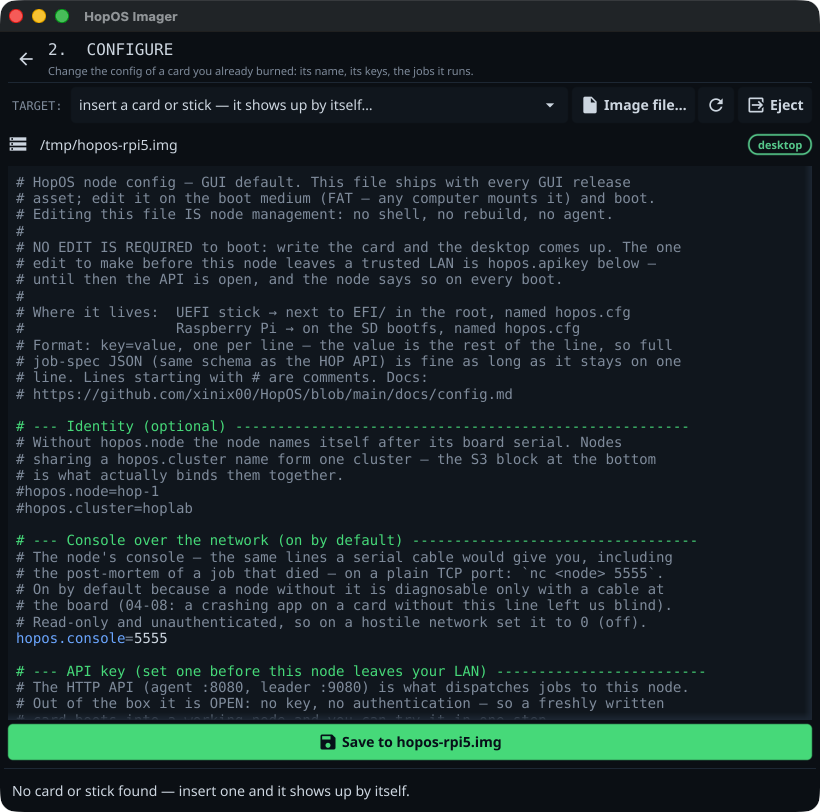
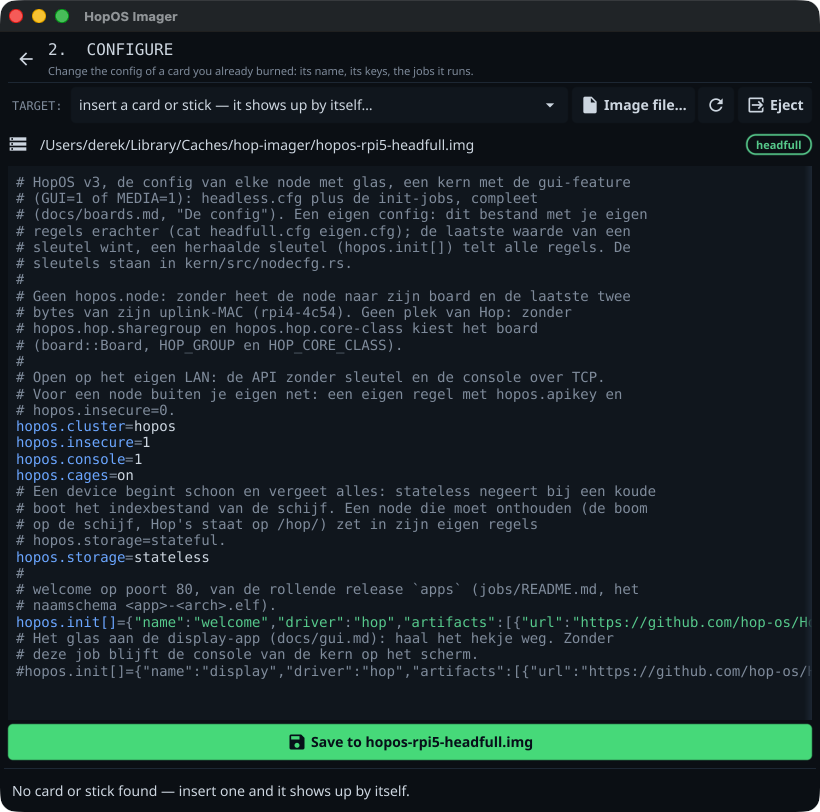
README, release-notes en screenshots: HopOS is Rust en woont in hop-os
De README vertelt v3: twee smaken per board en welke board welke heeft, het
16 KiB-venster in de kern op elk board, hop image (hop-os/hop) en hopcfg.py
(hop-os/HopOS) als de command-line kant, dat tcp/5555 in v3 een keuze is
(hopos.console=1 of hopos.insecure=1), en hoe FIND Hop vraagt wat de ring
vergat. De screenshots zijn opnieuw gemaakt: de Rust-tagline, BURN op v3.0.20,
CONFIGURE met de headfull.cfg van rc9, en FIND met drie echte nodes.

diff --git a/README.md b/README.md
@@ -8,8 +8,15 @@ steps, no terminal.
    (\(\
    ( -.-)     HopOS
    o_(")(")   --------------
-              the Go-only OS
+              the Rust-only OS
 ```
+
+HopOS is a bare-metal operating system for edge computing, written in Rust
+since v3: no Linux, one static binary *is* the OS, and every app runs in its
+own hardware-enforced partition on its own core. Its source lives in
+[hop-os/HopOS](https://github.com/hop-os/HopOS); the orchestrator that runs on
+it, Hop, in [hop-os/hop](https://github.com/hop-os/hop). This tool is the
+part you run on your laptop.
 
 ## One thing at a time
 
@@ -36,15 +43,35 @@ other nodes run.
 The tool opens on the **newest stable**. A beta is something you choose, not
 something that happens to you.
 
-Pick the **type** next: *Desktop* boots into the HopOS GUI, *Headless* is a
-node with no display code linked at all — API plus network console, and *Media*
-is the GUI plus the hardware video codec and USB optical drives, code the other
-two do not link. Then pick your **board**; version, type and board together
-select the image, so switching one of the three keeps the other two and fetches
-the matching file. A board without that flavour stays visible but disabled (the
-LicheeRV Nano and the Mac mini M4 are headless-only, and only the Radxa Orion
-O6N has a codec block to switch on — that is a fact about the port, not a
-missing download).
+Pick the **type** next. HopOS v3 builds every board in two flavours:
+*Headless* is a kernel with no GUI linked at all — API plus network console —
+and *Headfull* is the kernel with the GUI, plus the hardware video codec and
+USB optical drives on the Radxa Orion O6N, the one board with a codec block.
+The tool opens on Headless, because every board has it. Then pick your
+**board**; version, type and board together select the image, so switching one
+of the three keeps the other two and fetches the matching file. A board
+without that flavour stays visible but disabled (the LicheeRV Nano and the Mac
+mini M4 are headless-only: their kernel has no GUI feature — a fact about the
+port, not a missing download).
+
+The Go releases (HopOS v2) are still in the version list, with the three types
+they had: *Desktop*, *Headless* and *Media*. The buttons follow the version
+you pick, and switching between a v2 and a v3 version keeps the kind of card
+you chose — Headfull becomes Desktop and back, and your board stays selected
+even where v3 renamed it (`radxa-zero3` is `radxa` now, `m4` is `apple`).
+
+| Board | Headless | Headfull |
+|---|---|---|
+| Raspberry Pi 4 / 5 | yes | yes |
+| Radxa Zero 3E | yes | yes |
+| Radxa Orion O6N (USB stick) | yes | yes, with codec and optical drives |
+| Ampere Altra (USB stick) | yes | yes |
+| Mac mini M4 (installer stick) | yes | — |
+| LicheeRV Nano | yes | — |
+
+The Mac mini stick is not a boot medium: it carries the image, an installer
+and a README. Boot the mini into Recovery and run
+`sh /Volumes/HOPOS/install.sh go`; from then on it powers on into HopOS.
 
 The image is downloaded once and cached. Insert a card or a USB stick and it
 appears in **TARGET** by itself; if it is the only one, it is already selected.
@@ -68,9 +95,13 @@ It keeps your config **verbatim**. A config is a decision you made, and quietly
 merging it with a newer default would change decisions — with repeatable lines
 like `hopos.init[]` there is no honest merge anyway. Instead the tool tells you
 what the new default sets that your config lacks, so you can add it in CONFIGURE
-if you want it. It also warns when your kept config seeds a desktop but the
-image you just wrote is headless: that display job would never get the
-framebuffer.
+if you want it. It also warns when your kept config gives the screen to the
+display app but the image you just wrote is headless: that job would never get
+the framebuffer.
+
+The config window of a v3 kernel is 16 KiB (a Go card carried 1 MiB). A
+config that does not fit is not cut short: the card keeps the image's default,
+the tool says so, and your own config is in the backup.
 
 The backup lands in your user config directory with mode `0600` — it contains
 your keys, in plain text, and the tool names the file in the log so that is never
@@ -87,8 +118,13 @@ button, no dialog. Edit, save, put the card back in the node.
 
 The config is coloured for what this format actually has, nothing more: section
 headers in phosphor, comments muted, keys blue, values white, JSON job lines
-with their strings and numbers apart — and **secrets in copper**, so a config
-open on your screen shows you where its keys are.
+with their strings and numbers apart — and **secrets in copper** (`hopos.apikey`,
+`hopos.s3.key`, `hopos.s3.secret`, `hopos.lock.apikey`), so a config open on
+your screen shows you where its keys are.
+
+The tag next to it says `headfull` when the config seeds the display app or
+*welcome*, `headless` otherwise. That is an educated guess: in v3 the kernel
+decides whether a node has a GUI, not a line in its config.
 
 The colours are there **while you type** — there is no view mode to leave. The
 text field is a real text field (selection, clipboard, undo, mouse) with
@@ -97,23 +133,44 @@ keystroke recolours it, which costs under a millisecond for a 7 KB config. So a
 half-finished job line or a value you moved into a comment shows up the moment
 you type it.
 
-It works on a card that no operating system can mount, and on a board whose
-config lives inside the kernel, because the tool never touches a filesystem —
-see the next section.
+It works on a card that no operating system can mount, and on every board's
+kernel, because the tool never touches a filesystem — see the next section.
 
 ### FIND — where is that thing on my network?
 
 ![FIND](docs/find.png)
 
-Every HopOS node serves its console on `tcp/5555`, and hands over its retained
+A HopOS node serves its console on `tcp/5555`, and hands over its retained
 boot log the moment you connect. So a single TCP connect both identifies a node
-*and* tells you its name, architecture, type and state — no mDNS, no broadcast,
-no extra code on the node. Nodes appear while the scan is still running, so a
-network full of them fills up as you watch.
+*and* tells you its name, architecture, HopOS version, type and state — no
+mDNS, no broadcast, no extra code on the node. Nodes appear while the scan is
+still running, so a network full of them fills up as you watch.
 
-Click a row to read that node's boot log. **GUI** opens the node's own screen
-(`/kvm`); **Manage** hands its name and address to gui.gethop.org. Neither ever
-carries a key — this tool has none, knows none and puts none in a URL.
+In v3 that console port is a choice: `hopos.console=1` or `hopos.insecure=1`
+opens it, and both shipped configs (`headless.cfg` and `headfull.cfg`) set
+both. A node you locked down — an API key, `hopos.insecure=0` and no
+`hopos.console=1` — keeps its console on the serial line only, and FIND will
+not see it. That is the point of locking it down.
+
+The console is a ring of 32 KiB, though. A v3 node that has run for a few
+hours has pushed its boot out of it, and after a kernel flip Hop is not
+restarted at all. So once a node has shown itself as HopOS on 5555, FIND also
+asks Hop: `GET :8080/v1/agents` gives the node's name and HopOS version, days
+after the boot. A `200` means Hop is up and its API is open; a `401` means Hop
+is up with a key, and then that is all FIND learns. Whatever the node no longer
+says (the architecture, whether it has a GUI) is left out instead of guessed.
+
+Otherwise the state comes from the markers the kernel and Hop print:
+`hop starting` before Hop reports `HOP_UP`, `parked — no api key set` when Hop
+refuses its API for lack of a key, and `hop down` when Hop fell over. Go nodes
+(v2) are still recognised, and show as such.
+
+Click a row to read that node's console. **Web** opens what the node serves on
+port 80 (*welcome*, which `headfull.cfg` seeds, or whatever a job publishes
+there; on a Go desktop node, its own screen at `/kvm`). It is enabled only when
+something answers on port 80. **Manage** hands its name and address to gui.gethop.org.
+Neither ever carries a key — this tool has none, knows none and puts none in a
+URL.
 
 ## Why the config edit always works
 
@@ -121,9 +178,10 @@ HopOS images carry their config as a fixed-size **config window**: a magic
 first line, the config, and `#`-comment padding.
 
 ```
-#HOPCFG1 window=1048576 len=0000005179
-hopos.node=hop-1
-hopos.console=5555
+#HOPCFG1 window=16384 len=0000001160
+hopos.cluster=hopos
+hopos.insecure=1
+hopos.console=1
 ...
 ################################################################   (padding)
 ```
@@ -132,12 +190,21 @@ To every config parser that is just a config file with comments in it. To this
 tool it is a block of bytes that can be rewritten **in place** — so editing
 works before flashing (on the image) and after (on the card), without mounting
 anything, and regardless of whether your OS can mount the boot partition at
-all. On the LicheeRV Nano, where the config lives inside the kernel, the tool
-also fixes the Sophgo FIP checksums that guard it.
+all.
 
-The same format is written by HopOS's own `image/mkcard -cfgwindow` and can be
-edited from the command line with `image/hopcfg` in the
-[HopOS repository](https://github.com/hop-os/HopOS).
+In v3 the window sits **inside the kernel itself**, on every board: 16 KiB on
+a 4 KiB boundary, in the kernel binary on the card, on the UEFI stick, in the
+Mac mini's boot object, in the LicheeRV's FIP and in a flip bundle alike. One
+imager fills all of them by finding the header line. On the LicheeRV Nano the
+tool also fixes the Sophgo FIP checksums that guard it. (The Go generation kept
+the window on the card, as a 1 MiB `hopos.cfg` in the FAT; the tool still reads
+and writes those.)
+
+The same format is read and written from the command line by `hop image` in
+[hop-os/hop](https://github.com/hop-os/hop) and by `image/hopcfg.py` in
+[hop-os/HopOS](https://github.com/hop-os/HopOS). The keys themselves are
+documented in `kern/src/nodecfg.rs` there; a config of your own is the
+flavour's default with your lines after it — the last value of a key wins.
 
 ## Privileges
 
@@ -178,7 +245,7 @@ go build .
 Command line, no GUI needed:
 
 ```sh
-./hop-imager -scan      # list HopOS nodes on this network
+./hop-imager -scan      # list HopOS nodes on this network, with their version
 ./hop-imager -releases  # the versions BURN offers, and the one it opens on (*)
 ```
 
@@ -206,10 +273,15 @@ constraint the operating system imposes rather than a style choice:
 
 ## Releases
 
+The tool itself lives at [hop-os/hop-imager](https://github.com/hop-os/hop-imager).
 Numbered releases stay put; the **rolling-release** tag always carries the
 newest build at a URL that never changes — the same arrangement HopOS uses for
-its images and SURF for its apps. Pushing a `v*` tag builds all platforms on
-native runners and fills both.
+its apps. Pushing a `v*` tag builds all platforms on native runners and fills
+both.
+
+The card images come from the releases of
+[hop-os/HopOS](https://github.com/hop-os/HopOS) (`release.Repo`): every
+release with `.img`/`.img.gz` assets is in BURN's list.
 
 ## License
 

diff --git a/.github/release-notes.md b/.github/release-notes.md
@@ -10,9 +10,11 @@ The desktop tool for [HopOS](https://gethop.org) nodes: **burn** a card, **confi
 
 ## Notes
 
-**Three types: Desktop, Headless, Media.** HopOS v2.2.8 ships a third flavour, and BURN has a third button for it: *Media* is the GUI plus the hardware video codec and USB optical drives — code that the Desktop and Headless images do not link at all. Today only the Radxa Orion O6N has a codec block to switch on, so under Media the other boards stay visible but disabled. The image tag says `media` in phosphor. Media carries the same config as Desktop, so for this one tag the tool goes by the file name (`*-media.img`) rather than the config alone.
+**HopOS v3: the Rust generation.** HopOS is written in Rust now, and moved to the [hop-os](https://github.com/hop-os) organisation on GitHub, the same as this tool. BURN reads the v3 releases from [hop-os/HopOS](https://github.com/hop-os/HopOS): two types per board, *Headless* (no GUI linked) and *Headfull* (the GUI, plus the video codec and optical drives on the Radxa Orion O6N), and the board names v3 uses for the Radxa Zero 3E (`radxa`) and the Mac mini M4 (`apple`). The tool opens on Headless, the type every board has. The Go releases (v2) stay in the version list with their own three types, Desktop, Headless and Media, and switching between a v2 and a v3 version keeps your kind of card and your board.
 
-**The Radxa Orion O6N and Ampere Altra are in the board list.** Both boot through their own UEFI from a USB stick, and BURN calls them by name. Older HopOS versions that still carry the generic UEFI stick keep showing it.
+**FIND reads a v3 node.** The Rust kernel and Hop print different console lines than the Go kernel did, and FIND now reads them: the name from Hop's `HOP_UP` line (or from the env the kernel hands Hop, before Hop is up), the architecture and the **HopOS version** from the runtime line, the GUI from `HOPOS_FB_CONSOLE`. A v3 console is a 32 KiB ring, so on a node that has run for hours, or that flipped its kernel, the boot is gone. FIND then asks Hop itself (`GET :8080/v1/agents`) for the name and version, and leaves out what nobody can tell it any more instead of guessing. The state is one of `agent up`, `hop starting`, `parked — no api key set` or `hop down`. **Web** opens what the node serves on port 80, *welcome* on a headfull node, and is enabled only when something answers there. Go nodes are still found. Note that in v3 the console port (`tcp/5555`) is open only with `hopos.console=1` or `hopos.insecure=1`. Both shipped configs set both, but a node you locked down is invisible to FIND.
+
+**The config window is inside the kernel, on every board.** A v3 image carries its config in a 16 KiB `#HOPCFG1` window inside the kernel binary itself. CONFIGURE and *Keep this card's config* find it there, just as they found the 1 MiB window on a Go card. A kept config that does not fit the smaller window is not cut short: the card keeps the image's default, and your config stays in the backup. The editor also shows `hopos.lock.apikey` in copper as a secret.
 
 **Stable or beta, and which version.** HopOS ships betas too, so BURN opens on a line that says what you are about to write: the channel as a coloured tag — `stable` in phosphor, `beta` in copper — with the version number behind it. That number is the selector: every HopOS release carrying card images is in the list, newest first, so going back to the version your other nodes run is one click. The tool starts on the newest **stable**; a beta is something you choose, not something that happens to you. `./hop-imager -releases` prints the same list without opening a window.
 
@@ -30,4 +32,4 @@ The desktop tool for [HopOS](https://gethop.org) nodes: **burn** a card, **confi
 
 **Windows writes the way Windows demands.** Before a single byte goes to `\\.\PhysicalDriveN`, every volume on that disk is locked and dismounted, and those handles are held open for the whole write — otherwise Windows remounts the volume mid-flash and lays its own filesystem over yours. Afterwards the locks are released and the disk re-reads its partition table.
 
-**Configuring is always afterwards, and always raw.** Every HopOS image carries its config in a fixed-size window (`#HOPCFG1`) that this tool patches in place — no mount, so it works on a card your computer cannot mount, and on the LicheeRV Nano, where the config lives inside the kernel and the FIP checksums are fixed up for you.
+**Configuring is always afterwards, and always raw.** Every HopOS image carries its config in a fixed-size window (`#HOPCFG1`) that this tool patches in place — no mount, so it works on a card your computer cannot mount, and on every board's kernel, including the LicheeRV Nano's FIP, where the checksums are fixed up for you.
